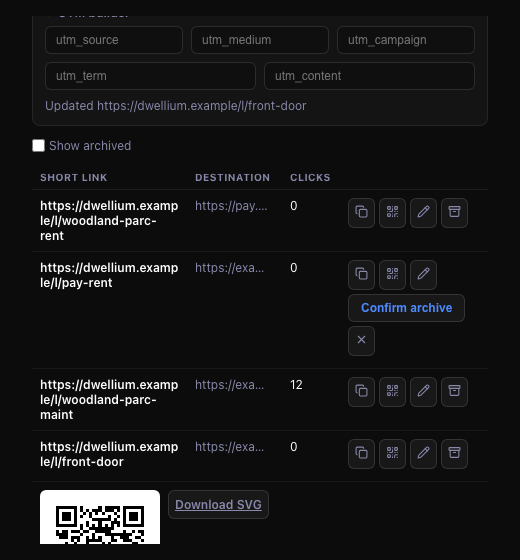
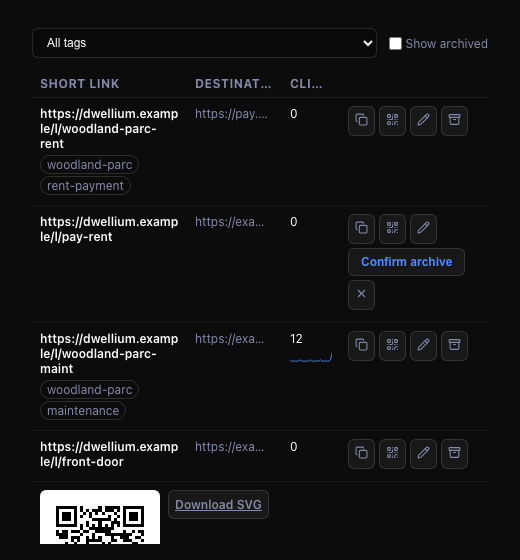
fix(links): derived tag filter and picker, real sparkline cap, expiry shown, four columns (plan 077 p3 review)
Each reproduced by an adversarial review of e92a376:

- A tag filter whose tag vanished (last link untagged, or a backend
  without tags) left an empty list with no way out: the active filter
  is derived from the current tags.
- A tag added with Add tag lost its checkbox on the next refresh while
  still being sent: the picker is backend tags plus picked ones, and
  the picked set clears after a successful create.
- The sparkline '8 rows' was a batch size (30 clicked links = 30 calls);
  it is now a hard cap of 8.
- Rows show 'expires …' or 'expired' under the short link; nothing
  marked a dead link before.
- Focus handed back after an archive can no longer be pulled back by a
  later refresh (test added; the fix was present but unprotected).
- Layout: a fifth Tags column truncated the headers at 520px; tags are
  chips under the short link, four columns always.

diff --git a/qualia-shell/src/components/ShortLinks/ShortLinks.tsx b/qualia-shell/src/components/ShortLinks/ShortLinks.tsx
@@ -235,7 +235,8 @@ export default function ShortLinks() {
     // Eager sparkline fetch for the first clicked links (one analytics call per row).
     useEffect(() => {
         if (state.kind !== 'ok' || !state.data.features.has('timeseries')) return;
-        const wanted = state.data.links.filter(l => l.clicks > 0 && !(l.id in series)).slice(0, SPARKLINE_ROWS);
+        // Only the first SPARKLINE_ROWS clicked links ever get a fetch (a hard cap, not a batch size).
+        const wanted = state.data.links.filter(l => l.clicks > 0).slice(0, SPARKLINE_ROWS).filter(l => !(l.id in series));
         if (wanted.length === 0) return;
         let cancelled = false;
         void Promise.all(wanted.map(async l => [l.id, await getClicksTimeseries(l.id)] as const)).then(results => {
@@ -298,7 +299,7 @@ export default function ShortLinks() {
             };
         }
         if (await create(input)) {
-            setUrl(''); setKey(''); setExpiry('');
+            setUrl(''); setKey(''); setExpiry(''); setPickedTags([]);
             setUtm({ utm_source: '', utm_medium: '', utm_campaign: '', utm_term: '', utm_content: '' });
         }
     };
@@ -322,9 +323,7 @@ export default function ShortLinks() {
         if (r.kind === 'ok') {
             setNewTag('');
             setPickedTags(t => (t.includes(name) ? t : [...t, name]));
-            // Built-in lists only tags some link uses, so a reload would drop the new one: merge what the backend echoed.
-            const added = r.data ?? { id: name, name, color: '' };
-            setState(s => (s.kind === 'ok' && !s.data.tags.some(t => t.name === name) ? { ...s, data: { ...s.data, tags: [...s.data.tags, added] } } : s));
+            // Built-in lists only tags some link uses — the picker shows picked-but-unused ones too (see pickerTags).
         } else {
             setNotice(r.kind === 'needs-setup' ? UNAVAILABLE : r.message);
         }
@@ -386,11 +385,15 @@ export default function ShortLinks() {
         );
     }
 
+    // Derived so a tag that vanished from the list (last link untagged, or a backend without tags) cannot strand the filter.
+    const tagList = state.kind === 'ok' && can('tags') ? state.data.tags : [];
+    const activeTag = tagList.some(t => t.name === filterTag) ? filterTag : '';
+    const pickerTags = [...tagList, ...pickedTags.filter(n => !tagList.some(t => t.name === n)).map(n => ({ id: n, name: n, color: '' }))];
     const needle = search.trim().toLowerCase();
     const matches = (l: ShortLink): boolean =>
         [l.shortLink, l.url, l.comments ?? '', ...(l.tags ?? []).map(t => t.name)].some(v => v.toLowerCase().includes(needle));
     const visibleLinks = state.kind === 'ok'
-        ? state.data.links.filter(l => (!filterTag || (l.tags ?? []).some(t => t.name === filterTag)) && (!needle || matches(l)))
+        ? state.data.links.filter(l => (!activeTag || (l.tags ?? []).some(t => t.name === activeTag)) && (!needle || matches(l)))
         : [];
 
     return (
@@ -551,7 +554,7 @@ export default function ShortLinks() {
                                 <details className="short-links__details">
                                     <summary>Tags{pickedTags.length ? ` (${pickedTags.length})` : ''}</summary>
                                     <div className="short-links__tag-picker">
-                                        {state.data.tags.map(t => (
+                                        {pickerTags.map(t => (
                                             <label key={t.id} className="short-links__tag-option">
                                                 <input
                                                     type="checkbox"
@@ -611,7 +614,7 @@ export default function ShortLinks() {
                         {can('tags') && (
                             <select
                                 className="short-links__input short-links__input--key"
-                                value={filterTag}
+                                value={activeTag}
                                 onChange={e => setFilterTag(e.target.value)}
                                 aria-label="Filter by tag"
                             >
@@ -632,28 +635,32 @@ export default function ShortLinks() {
                     {visibleLinks.length === 0
                         ? (
                             <div className="short-links__empty" data-state="none-yet">
-                                <h3>{needle ? 'No links match' : `No links${filterTag ? ` tagged ${filterTag}` : ' yet'}`}</h3>
+                                <h3>{needle ? 'No links match' : `No links${activeTag ? ` tagged ${activeTag}` : ' yet'}`}</h3>
                                 <p>{needle ? 'Clear the search or the tag filter to see more.' : 'Shorten a Tenant Portal or published-doc URL above, then print its QR.'}</p>
                             </div>
                         )
                         : (
                             <table className="short-links__table">
                                 <thead>
-                                    <tr><th>Short link</th><th>Destination</th>{can('tags') && <th>Tags</th>}<th>Clicks</th><th aria-label="Actions" /></tr>
+                                    <tr><th>Short link</th><th>Destination</th><th>Clicks</th><th aria-label="Actions" /></tr>
                                 </thead>
                                 <tbody>
                                     {visibleLinks.map(l => (
                                     <Fragment key={l.id}>
                                         <tr data-archived={l.archived || undefined}>
-                                            <td className="short-links__short">{l.shortLink}{l.archived ? ' (archived)' : ''}</td>
+                                            <td className="short-links__short">
+                                                {l.shortLink}{l.archived ? ' (archived)' : ''}
+                                                {/* Tags and the expiry state sit under the link: a fifth column does not fit the 520px minimum. */}
+                                                {(l.tags ?? []).length > 0 && (
+                                                    <div className="short-links__meta">{(l.tags ?? []).map(t => <span key={t.id} className="short-links__chip">{t.name}</span>)}</div>
+                                                )}
+                                                {l.expiresAt && (
+                                                    <div className={`short-links__meta short-links__row-hint${Date.parse(l.expiresAt) <= Date.now() ? ' short-links__expired' : ''}`}>
+                                                        {Date.parse(l.expiresAt) <= Date.now() ? 'expired ' : 'expires '}{new Date(l.expiresAt).toLocaleString()}
+                                                    </div>
+                                                )}
+                                            </td>
                                             <td className="short-links__dest" title={l.url}>{l.url}</td>
-                                            {can('tags') && (
-                                                <td>
-                                                    {(l.tags ?? []).map(t => (
-                                                        <span key={t.id} className="short-links__chip">{t.name}</span>
-                                                    ))}
-                                                </td>
-                                            )}
                                             <td className="short-links__clicks">
                                                 {l.clicks}
                                                 {series[l.id] && <Sparkline points={series[l.id]} />}
@@ -710,7 +717,7 @@ export default function ShortLinks() {
                                         </tr>
                                         {(qrFor === l.id || editingId === l.id) && (
                                             <tr>
-                                                <td colSpan={can('tags') ? 5 : 4}>
+                                                <td colSpan={4}>
                                                     <div className="short-links__detail">
                                                     {qrFor === l.id && (
                                                         // Builtin-mode rows carry no hosted qrCode URL — render the same client-side QR the door sheet uses.

diff --git a/qualia-shell/src/test/shortLinksWidget.test.tsx b/qualia-shell/src/test/shortLinksWidget.test.tsx
@@ -1214,7 +1214,8 @@ describe('ShortLinks widget — feature gating (plan 077 p3)', () => {
         expect(screen.getByLabelText('Expires at')).toBeInTheDocument();
         expect(screen.getByText(/^Tags/, { selector: 'summary' })).toBeInTheDocument();
         expect(screen.getByLabelText('Filter by tag')).toBeInTheDocument();
-        expect(screen.getByRole('columnheader', { name: 'Tags' })).toBeInTheDocument();
+        expect(screen.queryByRole('columnheader', { name: 'Tags' })).not.toBeInTheDocument(); // tags are chips under the short link (no fifth column at 520px)
+        expect(screen.getAllByRole('row')[1].querySelector('.short-links__chip')).not.toBeNull();
         expect(screen.getAllByText('woodland-parc').length).toBeGreaterThan(0); // chip in the row
         await waitFor(() => expect(screen.getByLabelText('Clicks sparkline: 3, 9')).toBeInTheDocument());
         expect(used(calls, /\/api\/links\/tags/)).toBe(true);
@@ -1507,5 +1508,79 @@ describe('ShortLinks widget — failures that must not cost the user their scree
         fireEvent.change(screen.getByLabelText('Custom key'), { target: { value: 'mine' } });
         fireEvent.click(screen.getByRole('button', { name: 'Create link' }));
         await waitFor(() => expect(screen.getByRole('status')).toHaveTextContent(`Key ${key} is taken`));
+    });
+});
+
+describe('phase 3 review regressions', () => {
+    const TAGGED = { ...BUILTIN_LINK, tags: [{ id: 'x', name: 'x', color: '' }] };
+
+    it('a tag filter whose tag vanished from the list resets to All tags instead of stranding an empty list', async () => {
+        let rows: JsonObject[] = [TAGGED];
+        vi.stubGlobal('fetch', vi.fn(async (url: RequestInfo | URL) => {
+            const u = String(url);
+            if (u.includes('/api/links/tags')) return jsonResponse({ success: true, mode: 'builtin', data: [...new Set(rows.flatMap(r => (r.tags as Array<{ name: string }>).map(t => t.name)))].map(n => ({ id: n, name: n, color: '' })) });
+            if (u.includes('/api/links/analytics')) return jsonResponse({ success: true, mode: 'builtin', data: [] });
+            return jsonResponse({ success: true, mode: 'builtin', features: ['tags'], data: rows });
+        }));
+        render(<ShortLinks />);
+        await waitFor(() => expect(screen.getByText(BUILTIN_LINK.shortLink)).toBeInTheDocument());
+        fireEvent.change(screen.getByLabelText('Filter by tag'), { target: { value: 'x' } });
+        expect(screen.getByText(BUILTIN_LINK.shortLink)).toBeInTheDocument();
+        rows = [{ ...BUILTIN_LINK, tags: [] }]; // the only x-tagged link lost its tag elsewhere
+        fireEvent.click(screen.getByRole('button', { name: 'Refresh short links' }));
+        await waitFor(() => expect((screen.getByLabelText('Filter by tag') as HTMLSelectElement).value).toBe(''));
+        expect(screen.getByText(BUILTIN_LINK.shortLink)).toBeInTheDocument();
+        expect(screen.queryByText(/No links tagged/)).not.toBeInTheDocument();
+    });
+
+    it('a tag added with "Add tag" keeps its (ticked) checkbox across a refresh and is cleared after the link is created', async () => {
+        const calls = stubBackend([BUILTIN_LINK], {}, { mode: 'builtin' });
+        render(<ShortLinks />);
+        await waitFor(() => expect(screen.getByText(BUILTIN_LINK.shortLink)).toBeInTheDocument());
+        fireEvent.change(screen.getByLabelText('New tag name'), { target: { value: 'promo' } });
+        fireEvent.click(screen.getByRole('button', { name: 'Add tag' }));
+        await waitFor(() => expect(screen.getByLabelText('promo')).toBeChecked());
+        fireEvent.click(screen.getByRole('button', { name: 'Refresh short links' }));
+        await waitFor(() => expect(calls.filter(c => c.method === 'GET' && /\/api\/links(\?|$)/.test(c.url)).length).toBeGreaterThanOrEqual(2));
+        expect(screen.getByLabelText('promo')).toBeChecked(); // still offered, still ticked
+        fireEvent.change(screen.getByLabelText('Destination URL'), { target: { value: 'https://e.test/new' } });
+        fireEvent.click(screen.getByRole('button', { name: 'Create link' }));
+        await waitFor(() => expect(calls.some(c => c.method === 'POST' && c.url.endsWith('/api/links'))).toBe(true));
+        expect(calls.find(c => c.method === 'POST' && c.url.endsWith('/api/links'))!.body).toMatchObject({ tagNames: ['promo'] });
+        await waitFor(() => expect(screen.queryByLabelText('promo')).not.toBeInTheDocument()); // picked set cleared, tag unused → gone
+    });
+
+    it('the sparkline cap is a real cap: 30 clicked links → at most 8 analytics calls', async () => {
+        const many = Array.from({ length: 30 }, (_, i) => ({ ...BUILTIN_LINK, id: `m${i}`, key: `m${i}`, shortLink: `${SHORT_BASE}m${i}`, clicks: 1 + i }));
+        const calls = stubBackend(many, {}, { mode: 'builtin' });
+        render(<ShortLinks />);
+        await waitFor(() => expect(screen.getByText(`${SHORT_BASE}m29`)).toBeInTheDocument());
+        await waitFor(() => expect(calls.filter(c => c.url.includes('/api/links/analytics')).length).toBe(8));
+        await new Promise(r => setTimeout(r, 60));
+        expect(calls.filter(c => c.url.includes('/api/links/analytics')).length).toBe(8);
+    });
+
+    it('an expired link says so under its short link; a live expiry shows the date', async () => {
+        stubBackend([{ ...BUILTIN_LINK, expiresAt: '2020-01-01T00:00:00.000Z' }, { ...LINK_2, id: 'live', key: 'live', shortLink: `${SHORT_BASE}live`, qrCode: '', expiresAt: '2999-01-01T00:00:00.000Z' }], {}, { mode: 'builtin' });
+        render(<ShortLinks />);
+        await waitFor(() => expect(screen.getByText(BUILTIN_LINK.shortLink)).toBeInTheDocument());
+        expect(screen.getByText(/^expired /)).toBeInTheDocument();
+        expect(screen.getByText(/^expires /)).toBeInTheDocument();
+    });
+
+    it('focus handed back after an archive is not pulled back again by later state changes', async () => {
+        const calls = stubBackend([BUILTIN_LINK, { ...LINK_2, qrCode: '' }], {}, { mode: 'builtin' });
+        render(<ShortLinks />);
+        await waitFor(() => expect(screen.getByText(BUILTIN_LINK.shortLink)).toBeInTheDocument());
+        fireEvent.click(screen.getByRole('button', { name: `Archive ${BUILTIN_LINK.shortLink}` }));
+        fireEvent.click(screen.getByRole('button', { name: 'Cancel archive' }));
+        expect(document.activeElement).toBe(screen.getByRole('button', { name: `Copy ${BUILTIN_LINK.shortLink}` }));
+        // The user moves on to the composer; a later refresh must not yank focus back to the row (or the search box).
+        const dest = screen.getByLabelText('Destination URL');
+        dest.focus();
+        fireEvent.click(screen.getByRole('button', { name: 'Refresh short links' }));
+        await waitFor(() => expect(calls.filter(c => c.method === 'GET' && /\/api\/links(\?|$)/.test(c.url)).length).toBeGreaterThanOrEqual(2));
+        await new Promise(r => setTimeout(r, 30));
+        expect(document.activeElement).toBe(dest);
     });
 });

diff --git a/qualia-shell/src/components/ShortLinks/ShortLinks.css b/qualia-shell/src/components/ShortLinks/ShortLinks.css
@@ -89,6 +89,8 @@
 .short-links__search { flex: 1 1 100%; width: 100%; box-sizing: border-box; }
 /* Muted inline message next to a row (e.g. "key is taken - archived"). */
 .short-links__row-hint { font-size: 12px; color: var(--text-tertiary); }
+.short-links__meta { margin-top: 4px; font-weight: 400; }
+.short-links__expired { color: color-mix(in srgb, var(--danger, #e5484d) 60%, var(--text-primary)); }
 
 .short-links__notice { margin: 8px 0 0; font-size: 12px; color: var(--text-secondary); }
 

diff --git a/plans/077-links-qr-widget.md b/plans/077-links-qr-widget.md
@@ -1,7 +1,7 @@
 # 077 — Links & QR widget: audit + improvement plan
 
-Status: PHASES 1–2 IMPLEMENTED 2026-10-02, committed locally, NOT pushed — frontend `feat/077-links-qr-p1`,
-backend `feat/077-links-backend-p1` (see §7–8). Phases 3–4 are still plan only. The audit (2026-10-01) was read-only.
+Status: PHASES 1–3 IMPLEMENTED 2026-10-02/03, committed locally, NOT pushed — frontend `feat/077-links-qr-p1`,
+backend `feat/077-links-backend-p1` (see §7–9). Phase 4 is still plan only. The audit (2026-10-01) was read-only.
 Base: frontend `main` @ `fe281de`; backend `main` (links code identical on the checked-out
 `chore/token-encryption-key-secret` branch — `git diff main` touches only `deploy/cloud-run.sh`).
 Swarm: ruflo `swarm-1790844744784-onqku3` (hierarchical). ruflo only *registered* the agents
@@ -276,4 +276,39 @@ values take effect only on the next deploy (verify with `curl -sI https://<app>/
 Location); no phone-camera scan of a paper print (CIDetector on the print render stands in);
 the widget has not been exercised in the logged-in shell. Destinations are per-user widget memory
 (Ilya is the only operator) — move them to the backend if a second operator ever needs them.
+
+## 9. Phase 3 — what was done (2026-10-03)
+
+Swarm: ruflo `swarm-1790993985486-tza97c` registered `links077-p3-backend`, `links077-p3-client`,
+`links077-p3-integrator` and `links077-p3-reviewer`; the work ran as Claude Code subagents — two
+coders in parallel (backend; API client + CSS) with the integrator started alongside them on a
+fixed contract, then a refute-first reviewer. The orchestrator read every diff, ran the live
+probes and fixed what they showed.
+
+| Step | Done | Where |
+|---|---|---|
+| 3.1 | `short_links` + `expires_at`, `tags` (JSON names), `created_by`, `updated_at` — `ALTER TABLE ADD COLUMN` only, idempotent; expired links 404; `GET /tags` = names in use, `POST /tags` echoes; the widget shows expiry, tags, tag filter and edit controls when the backend lists the feature | linkRoutes.ts, ShortLinks.tsx |
+| 3.2 | `short_link_clicks(slug, ts, kind)` — head / bot / human by method and user agent, no IP or UA stored; only human GETs count; zero-filled per-UTC-day timeseries and windowed counts; the sparkline draws in built-in mode | linkRoutes.ts, ShortLinks.tsx |
+| 3.3 | `GET /l/:slug` rate limited per client (120/min, burst 30/10 s; env-overridable), keyed on Netlify's `x-nf-client-connection-ip` behind the `/l/*` proxy, else `req.ip` — `req.ip` alone would have put every resident behind the proxy in one bucket | app.ts |
+| 3.4 | Client-side search over short link, destination, title and tags, combined with the tag filter | ShortLinks.tsx |
+| 3.5 | Always-mounted `role="status"` notice; Archive → focus on Confirm → back to the row or the search box; edit form focuses its URL input and is a `group`; 12 px minimum text; global `:focus-visible` ring confirmed to reach the controls | ShortLinks.tsx, ShortLinks.css |
+| 3.6 | Case-insensitive slug lookups with 409 on case-only duplicates (an index backs the lookup); a failed background refresh keeps the list and says so; a preset refused as taken hints at Show archived; list cap 1000 | linkRoutes.ts, ShortLinks.tsx |
+| contract | The list advertises `features: ['expiry','tags','timeseries']`; the widget gates on it, so either side can deploy first (old-backend.cjs proves an older backend still hides those controls) | shortLinksApi.ts |
+
+Review (refute-first, after the integration commit): 0 critical, 6 warnings, all reproduced. Fixed:
+W1 a forged `x-nf-client-connection-ip` on a direct call to the run.app host could burn another
+client's bucket (key is now `ip|header`, truncated; limits 300/min, 60/10 s in case Netlify does
+not forward the header — verify after deploy); W2 a door-sheet re-mint could never clear an old
+expiry and the list never showed one (re-mint now defines the expiry; rows show "expires …" /
+"expired"); W3 a tag filter whose tag vanished stranded an empty list (filter is derived from the
+current tags); W4 a tag added with "Add tag" lost its checkbox on refresh while still being sent
+(picker = backend tags ∪ picked; picked cleared after create); W5 the sparkline "cap" was a batch
+size (now a real cap of 8); W6 untested focus clear (tests added). Also: strict ISO-with-zone
+expiry parsing with a calendar check, `bot\b` so a CUBOT phone is a human, a four-column table
+(tags and expiry sit under the short link — five columns did not fit 520 px).
+Deferred with a home — 3.6/Phase 4: I3 interval anchoring to UTC days (24h = 2 points), I5 an
+archive that succeeds followed by a failed refresh reads as "could not refresh", I6 `GET /tags`
+includes tags used only by archived links and `LIMIT 1000` truncates silently.
+
+Not in 3.1: `entity_type` / `entity_id` columns — nothing sends them yet (Phase 4). Dub mode untouched.
 

diff --git a/Docs/code.md b/Docs/code.md
@@ -649,3 +649,12 @@ Append-only log. Each entry: error → root cause → fix → prevention.
 - **Error 3 (review, reproduced):** `parseUnits` de-duplicated raw labels but `unitKey` lowercases and collapses punctuation, so "A 1" and "A-1" minted ONE short link and the second sticker printed a destination its code did not go to. **Fix:** the sheet refuses a roster whose labels collapse to one key (naming both) and the backend refuses a batch with a repeated key. **Prevention:** whenever a derived key is the identity, de-duplicate on the KEY, not the input.
 - **Error 4 (review):** door keys `<property>-<unit>` shared the preset namespace `<property>-<suffix>`; a unit labelled "rent" would have re-aimed the rent preset through the bulk upsert. **Fix:** door keys are `<property>-unit-<unit>`. Namespaces that can collide must differ structurally, not by convention.
 
+## 2026-10-03 — Links & QR (plan 077 phase 3): capabilities, not modes; a rate limit keyed on the wrong IP
+
+- **Design:** the widget and the backend deploy separately (Netlify vs Cloud Run). Gating new controls on `mode:'builtin'` would have shown expiry/tags on an older backend that drops them (the Phase 1 lie again). The built-in LIST now carries `features: [...]` and the widget gates on that; Dub mode = all. Rule: when a UI control depends on backend support, the backend must advertise it.
+- **Error (caught in review of the plan, not in prod):** the redirect rate limiter was keyed on `req.ip`. Behind the Netlify `/l/*` proxy with `trust proxy` = 1 hop, `req.ip` is Netlify's egress address — every resident would have shared one 120/min bucket. **Fix:** key on `x-nf-client-connection-ip` first (a forged header only lets a caller dodge the limit, never throttle others).
+- **Click counting:** `short_link_clicks(slug, ts, kind)` with kind head/bot/human; only human GETs bump `clicks`, so link-preview fetchers and HEAD probes stop inflating the dashboard. No IP, UA or referrer is stored.
+- **Schema:** four `ALTER TABLE short_links ADD COLUMN …` in `try {} catch {}` (same pattern as `files`), one NOCASE index, one new table — additive, idempotent across boots, no existing value changes.
+- **Review (reproduced):** `req.ip`-or-header keying let a forged header on a direct run.app call throttle a Netlify-routed resident — key on `ip|header` instead; a bulk re-mint `COALESCE`d the old `expires_at`, so a dead door code stayed dead behind a success message — a re-mint DEFINES the expiry; a stored-tag filter outlived its tag and stranded an empty list — derive the active filter from current tags, never store a selection the list can invalidate; `Date.parse` accepted "1" and rolled "2026-02-30" over — require full ISO with a zone and check the calendar; `/bot/` matched the CUBOT phone brand — `bot\b`.
+- **Layout (screenshot):** a fifth Tags column truncated the headers at 520 px and chips spilled into Clicks — tags and expiry are chips/text under the short link; four columns always.
+
